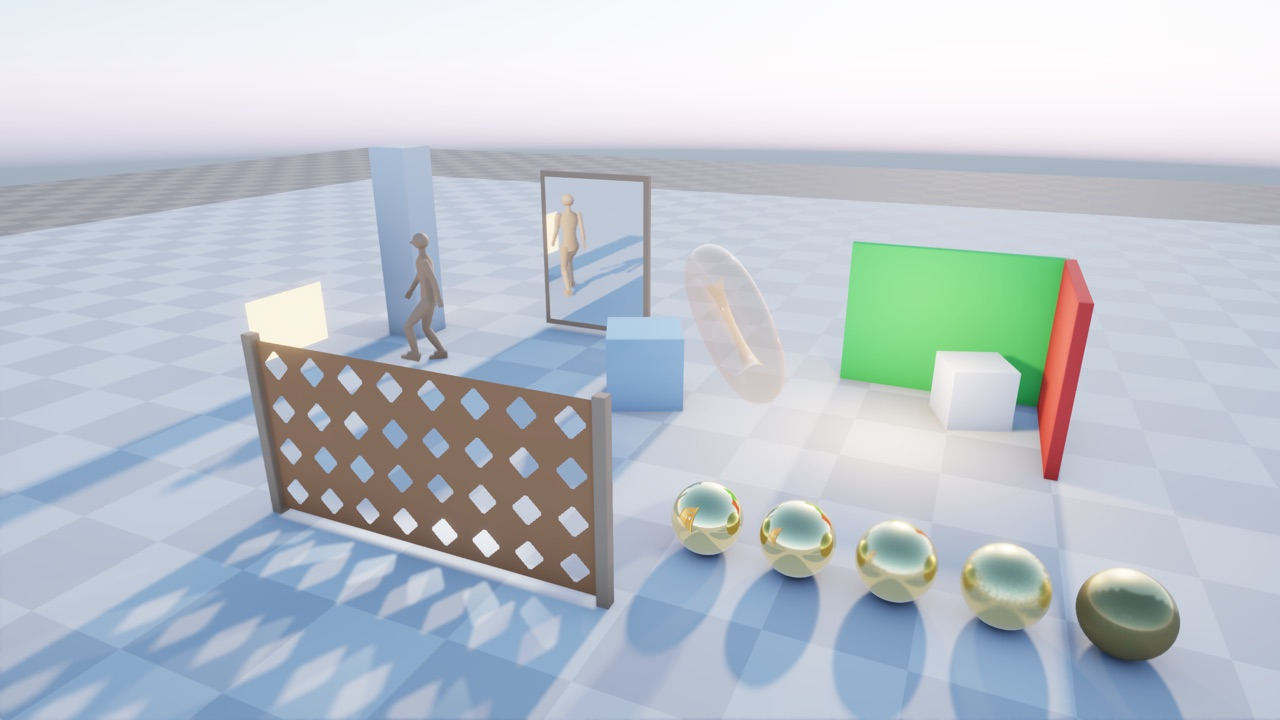
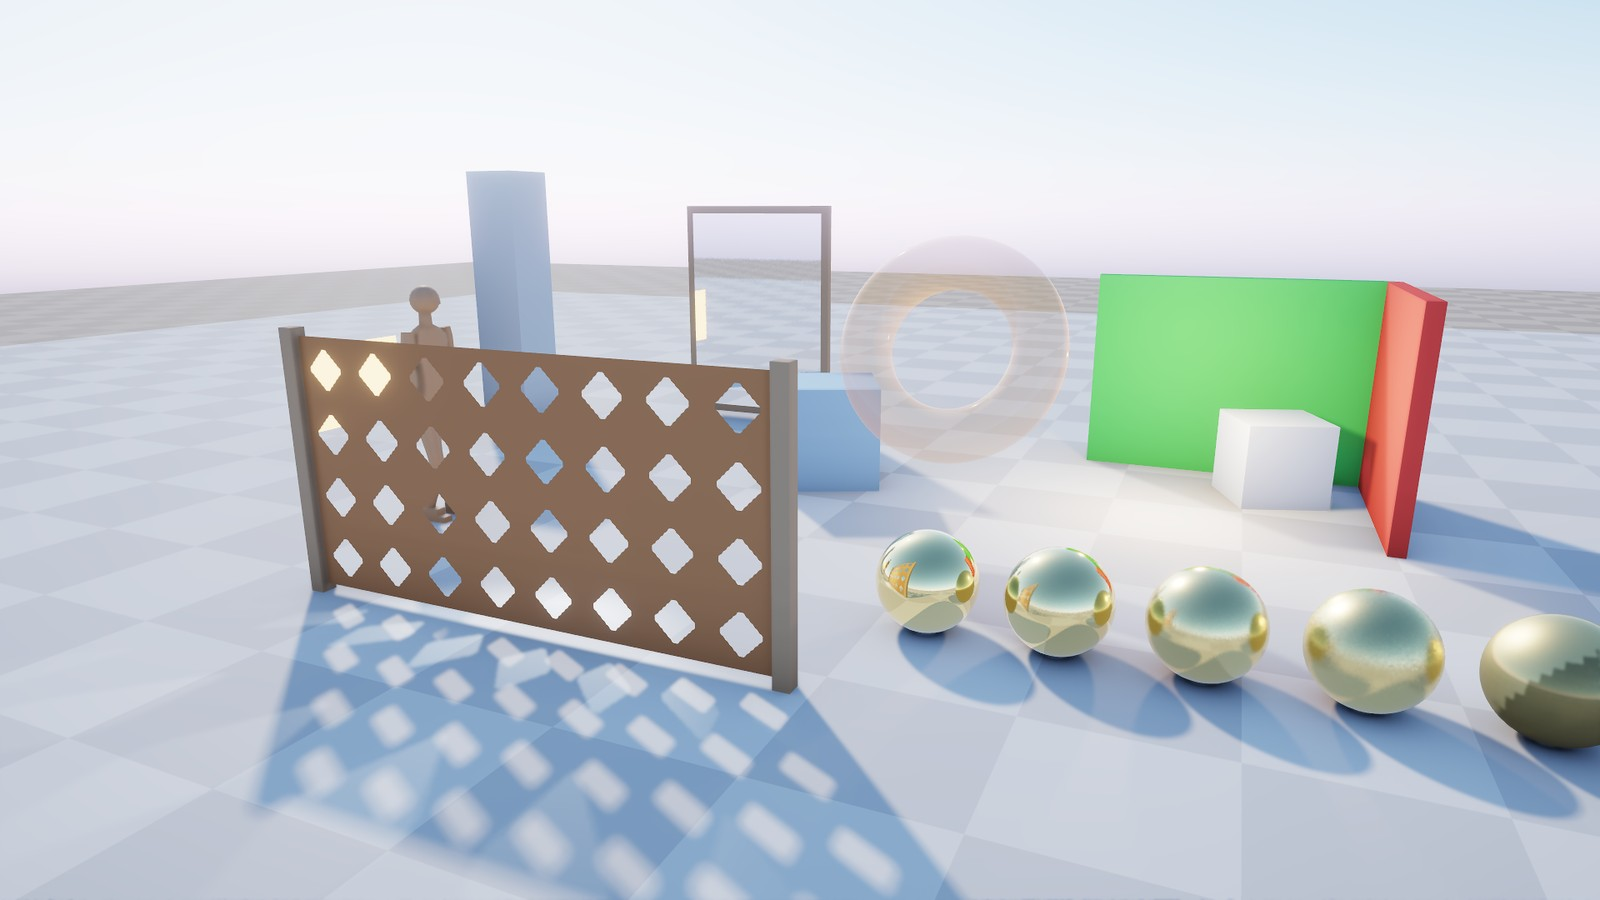
Refresh demo gallery and showcase Cloudsong
Replace tunnel and animation gallery images with particles, sunset clouds and a closer ray-tracing view. Add a linked Cloudsong example, capture recipes and image provenance.

Verified: native Metal showcase 4/4; quick demo gate 91/91; four JPEGs inspected and local image/link targets checked.

diff --git a/docs/images/CREDITS.md b/docs/images/CREDITS.md
@@ -1,0 +1,31 @@
+# README screenshots
+
+| File | Source | Rights |
+| --- | --- | --- |
+| `particles.jpg` | Quench Demo 0.12.1, Particles section: light streams, sparks and fireflies | Original project capture, MIT; procedural scene assets |
+| `weather.jpg` | Quench Demo 0.12.1, Weather section: towering clouds at sunset | Original project capture, MIT; procedural scene |
+| `raytracing.jpg` | Quench Demo 0.12.1, Ray tracing section: cut-out shadows, glass and reflective spheres | Original project capture, MIT; [demo asset credits](../../examples/demo/assets/CREDITS.md) |
+| `cloudsong.jpg` | [Cloudsong](https://github.com/m-brtn/cloudsong), version 0.1.1: starting meadow and ruins | Reproduced with the project owner's permission for this showcase; [game artwork credits](https://github.com/m-brtn/cloudsong/blob/main/CREDITS.md) |
+
+Captured on 2026-11-09 on an Apple M4 Pro Mac, native Metal, offscreen at 1920 x 1080 with the interface hidden.
+The demo uses the regular renderer, including real-time ray tracing in its Ray tracing section. The images are
+resized to 1600 x 900 with Lanczos filtering and saved as optimized JPEGs at quality 90, with no colour retouching
+or compositing. The Cloudsong file is identical to the image in the game's README. Its generated character and
+architecture are game artwork, separate from the demo's procedural content; the linked credits retain their terms.
+
+## Reproduce the demo captures
+
+From the repository root, after building the Release demo:
+
+```sh
+build/release/examples/demo/quench-demo --gpu-backend metal --frame-size 1920x1080 \
+  --audio-device null --user-dir build/showcase \
+  --script examples/demo/scenarios/showcase.txt
+```
+
+The scenario writes `weather.png`, `particles.png` and `raytracing.png` under `build/showcase/` and exits.
+It freezes the weather clock, restarts the particle streams and waits for the ray tracing scene to load.
+It is a gallery capture scenario, independent of the regression tests and their golden images.
+
+The game's [capture scenario and settings](https://github.com/m-brtn/cloudsong/blob/main/docs/images/CREDITS.md)
+reproduce the Cloudsong view. Captures document the Mac renderer, not the appearance of an iPhone display.

diff --git a/devlog/2026-11-09.md b/devlog/2026-11-09.md
@@ -133,3 +133,24 @@ At 01:52 Cloudsong consumed the published pin without a local source override: D
 fetched commit `8170de6`, post-pin Release checks passed 10/10 and Debug checks 2/2, and the new macOS package's
 fresh-unzip smoke passed 4/4. Full game results and the 132-frame visual review are in the linked game devlog.
 Both publication next steps are complete; the carried-forward Vulkan issue and unverified phone runs remain.
+
+## README showcase — 13:41
+
+Replaced the tunnel-led README gallery with a full-width particles/light-trails capture and smaller sunset-cloud
+and ray-tracing views. Removed the unused tunnel and animation gallery JPEGs; their demo sections and regression
+captures remain intact. Added a full-width Cloudsong screenshot linked to its public repository as an example game.
+
+The three demo frames come from `examples/demo/scenarios/showcase.txt`, a standalone photo tour with fixed cameras,
+frozen weather and a restarted particle clock. Captured at 1920 x 1080 on native Metal on the M4 Pro Mac, offscreen;
+inspected the originals and all final JPEGs. The four README images are 1600 x 900, 84,698–190,045 bytes each,
+resized/compressed only. Source, rights and reproduction commands are in `docs/images/CREDITS.md`.
+
+Verification: the new demo tour passed 4/4 assertions; `tools/check.sh quick demo` passed 91/91 tests in 51.30 s
+(54.8 s total), including the incremental Release build and existing capture comparisons. No golden files changed.
+All 12 local links/images in the edited README and credits resolve; all four JPEGs decode and remain under 300 kB.
+The Cloudsong copy is byte-identical to the game's hero image. Both GitHub repository links resolve to public
+projects. This change contains documentation, screenshots and a capture script only; no runtime or API changes,
+version bump, new package, phone run or performance claim.
+
+Cloudsong's corresponding hero-image update and capture checks are recorded in its
+[game devlog](https://github.com/m-brtn/cloudsong/blob/main/devlog/2026-11-09.md#readme-showcase--1341).

diff --git a/README.md b/README.md
@@ -23,17 +23,28 @@ look and listen.
   at and compares with reference images, and measure frame times.
 
 <p align="center">
-  <img src="docs/images/tunnel.jpg" alt="A tunnel lit by area lights, with a reflecting puddle and brushed metal" width="100%">
+  <img src="docs/images/particles.jpg" alt="Blue and pink ribbons of light above a field of fireflies and a glowing campfire" width="100%">
 </p>
 <p align="center">
-  <img src="docs/images/raytracing.jpg" alt="Ray-traced shadows through a fence, a mirror and gold spheres" width="49%">
-  <img src="docs/images/animation.jpg" alt="A crowd of animated characters on a ramp and a step" width="49%">
+  <img src="docs/images/weather.jpg" alt="Golden sunset light along the edges of towering volumetric clouds" width="49%">
+  <img src="docs/images/raytracing.jpg" alt="Cut-out fence shadows, tinted glass and a row of reflective gold spheres" width="49%">
 </p>
 
 <p align="center"><sub>
-  The engine demo: area lights and brushed metal · ray-traced shadows, reflections and bounced light · animated
-  characters. All content is procedural.
+  Captured in the engine demo: particles and light trails · volumetric clouds at sunset · ray-traced shadows,
+  reflections and bounced light. These demo scenes are procedural.
 </sub></p>
+
+## Made with Quench
+
+[**Cloudsong**](https://github.com/m-brtn/cloudsong) is a calm exploration game among floating islands. Follow
+flower-lined paths, discover old ruins and glide above the clouds, with animated characters and flowing cloth.
+
+<p align="center">
+  <a href="https://github.com/m-brtn/cloudsong">
+    <img src="docs/images/cloudsong.jpg" alt="Cloudsong: a red-caped traveller on a flower-lined path, carved ruins and floating islands beneath a blue sky" width="100%">
+  </a>
+</p>
 
 ## What it can do
 
